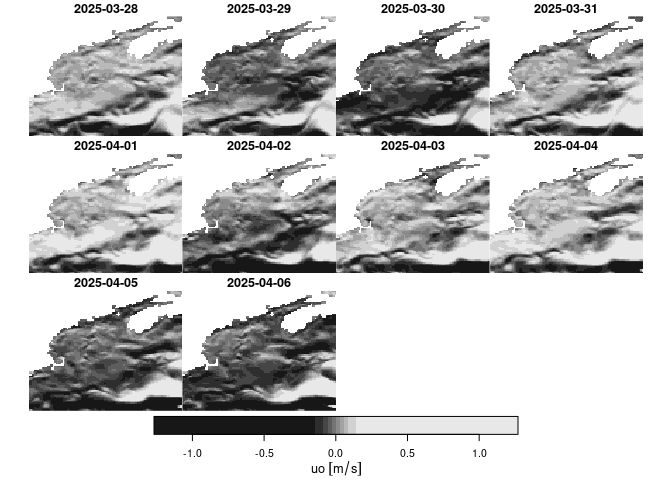
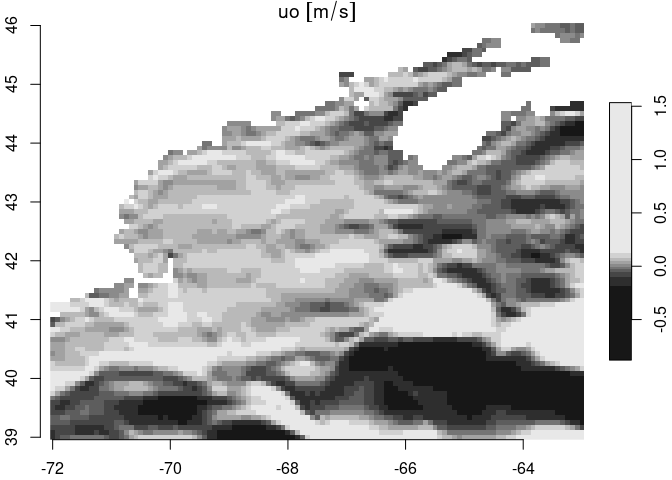
update README

diff --git a/README.md b/README.md
@@ -137,49 +137,56 @@ copernicus::get_copernicus_app()
 
 You can download a product catalog for local storage.
 
-    ok = copernicus::fetch_product_catalog()
+``` r
+suppressPackageStartupMessages({
+  library(copernicus)
+  library(stars)
+})
+
+ok = copernicus::fetch_product_catalog(product_id = "GLOBAL_ANALYSISFORECAST_BGC_001_028")
+```
 
 This downloads into a “catalogs” directory within your data directory
 Now read it in.
 
 ``` r
-x = copernicus::read_product_catalog()
+x = copernicus::read_product_catalog(product_id = "GLOBAL_ANALYSISFORECAST_BGC_001_028")
 x
 ```
 
-    ## # A tibble: 1,176 × 5
-    ##    product_id                             title dataset_id dataset_name vars    
-    ##    <chr>                                  <chr> <chr>      <chr>        <list>  
-    ##  1 ANTARCTIC_OMI_SI_extent                Anta… antarctic… Sea Ice Ext… <tibble>
-    ##  2 ANTARCTIC_OMI_SI_extent_obs            Anta… antarctic… Southern He… <tibble>
-    ##  3 ARCTIC_ANALYSISFORECAST_BGC_002_004    Arct… cmems_mod… Arctic Ocea… <tibble>
-    ##  4 ARCTIC_ANALYSISFORECAST_BGC_002_004    Arct… cmems_mod… Arctic Ocea… <tibble>
-    ##  5 ARCTIC_ANALYSISFORECAST_PHY_002_001    Arct… cmems_mod… Arctic Ocea… <tibble>
-    ##  6 ARCTIC_ANALYSISFORECAST_PHY_002_001    Arct… cmems_mod… Arctic Ocea… <tibble>
-    ##  7 ARCTIC_ANALYSISFORECAST_PHY_002_001    Arct… cmems_mod… Arctic Ocea… <tibble>
-    ##  8 ARCTIC_ANALYSISFORECAST_PHY_002_001    Arct… cmems_mod… Arctic Ocea… <tibble>
-    ##  9 ARCTIC_ANALYSISFORECAST_PHY_ICE_002_0… Arct… cmems_mod… neXtSIM-F s… <tibble>
-    ## 10 ARCTIC_ANALYSISFORECAST_PHY_ICE_002_0… Arct… cmems_mod… cmems_mod_a… <NULL>  
-    ## # ℹ 1,166 more rows
+    ## # A tibble: 31 × 7
+    ##    product_id       title dataset_id dataset_name short_name standard_name units
+    ##    <chr>            <chr> <chr>      <chr>        <chr>      <chr>         <chr>
+    ##  1 GLOBAL_ANALYSIS… Glob… cmems_mod… daily mean … nppv       net_primary_… mg m…
+    ##  2 GLOBAL_ANALYSIS… Glob… cmems_mod… daily mean … o2         mole_concent… mmol…
+    ##  3 GLOBAL_ANALYSIS… Glob… cmems_mod… Monthly mea… nppv       net_primary_… mg m…
+    ##  4 GLOBAL_ANALYSIS… Glob… cmems_mod… Monthly mea… o2         mole_concent… mmol…
+    ##  5 GLOBAL_ANALYSIS… Glob… cmems_mod… daily mean … dissic     mole_concent… mol …
+    ##  6 GLOBAL_ANALYSIS… Glob… cmems_mod… daily mean … ph         sea_water_ph… 1    
+    ##  7 GLOBAL_ANALYSIS… Glob… cmems_mod… daily mean … talk       sea_water_al… mol …
+    ##  8 GLOBAL_ANALYSIS… Glob… cmems_mod… Monthly mea… dissic     mole_concent… mol …
+    ##  9 GLOBAL_ANALYSIS… Glob… cmems_mod… Monthly mea… ph         sea_water_ph… 1    
+    ## 10 GLOBAL_ANALYSIS… Glob… cmems_mod… Monthly mea… talk       sea_water_al… mol …
+    ## # ℹ 21 more rows
 
-This provides a nested table of available datasets along with tables of
-variables for each (if any). For example, the first row has the
-following variables table.
+By default this provides a flattened table of available datasets along
+with tables of variables for each (if any). Here’s the first dataset (a
+constituent of product suite)
 
 ``` r
-dplyr::slice(x, 1) |>
-  dplyr::pull(dplyr::all_of(vars))
+dplyr::filter(x, dataset_id %in% "cmems_mod_glo_bgc-bio_anfc_0.25deg_P1D-m") |>
+  dplyr::glimpse()
 ```
 
-    ## [[1]]
-    ## # A tibble: 5 × 3
-    ##   short_name     standard_name  units
-    ##   <chr>          <chr>          <chr>
-    ## 1 siextents_cglo sea_ice_extent km2  
-    ## 2 siextents_glor sea_ice_extent km2  
-    ## 3 siextents_mean sea_ice_extent km2  
-    ## 4 siextents_oras sea_ice_extent km2  
-    ## 5 siextents_std  sea_ice_extent km2
+    ## Rows: 2
+    ## Columns: 7
+    ## $ product_id    <chr> "GLOBAL_ANALYSISFORECAST_BGC_001_028", "GLOBAL_ANALYSISF…
+    ## $ title         <chr> "Global Ocean Biogeochemistry Analysis and Forecast", "G…
+    ## $ dataset_id    <chr> "cmems_mod_glo_bgc-bio_anfc_0.25deg_P1D-m", "cmems_mod_g…
+    ## $ dataset_name  <chr> "daily mean fields from Global Ocean Biogeochemistry Ana…
+    ## $ short_name    <chr> "nppv", "o2"
+    ## $ standard_name <chr> "net_primary_production_of_biomass_expressed_as_carbon_p…
+    ## $ units         <chr> "mg m-3 day-1", "mmol m-3"
 
 ## Which products? Which datasets?
 
@@ -192,6 +199,9 @@ subject to change).
 
 [GLOBAL_ANALYSISFORECAST_PHY_001_024](https://data.marine.copernicus.eu/product/GLOBAL_ANALYSISFORECAST_PHY_001_024/description)
 31 Oct 2020 to 9 days from present (forecast)
+
+[GLOBAL_ANALYSISFORECAST_BGC_001_028](https://data.marine.copernicus.eu/product/GLOBAL_ANALYSISFORECAST_BGC_001_028/description)
+2021-10-01 to 9 days from present
 
 ## Fetching data
 
@@ -234,9 +244,9 @@ x
 
     ## stars object with 4 dimensions and 2 attributes
     ## attribute(s):
-    ##                Min.     1st Qu.        Median        Mean    3rd Qu.     Max.
-    ## uo [m/s] -1.2678599 -0.06923880 -0.0005947499 0.001666143 0.06905091 1.270773
-    ## vo [m/s] -0.4879295 -0.05941393 -0.0092028086 0.016247062 0.04970369 1.277342
+    ##                Min.     1st Qu.       Median         Mean    3rd Qu.     Max.
+    ## uo [m/s] -0.8798773 -0.07763755 -0.002414509 -0.007870006 0.05840731 1.534169
+    ## vo [m/s] -0.8442903 -0.05558647 -0.002378657  0.028312241 0.05098823 1.805341
     ##           NA's
     ## uo [m/s] 26800
     ## vo [m/s] 26800
@@ -245,173 +255,10 @@ x
     ## x        1 109         -72.04  0.08333      NA [x]
     ## y        1  85          46.04 -0.08333      NA [y]
     ## depth    1   1      0.494 [m]       NA      NA    
-    ## time     1  10 2025-03-28 UTC   1 days POSIXct
-
-We can plot a subset of these using base graphics and the `[` function.
-`stars` objects are indexed first by the attribute (variable) followed
-by the dimensions. In this case the index order is \[`attribute`, `x`,
-`y`, `depth`, `time`\] or \[`attribute`, `x`, `y`, `time`\] for
-single-depth objects.
+    ## time     1  10 2025-04-22 UTC   1 days POSIXct
 
 ``` r
-plot(dplyr::slice(x, "depth", 1) )
+plot(x['uo'], axes = TRUE)
 ```
 
 ![](README_files/figure-gfm/first_plot-1.png)<!-- -->
-
-## Archiving data
-
-You can download and archive data using the database functionality
-provided in this package. There are a number of ways to manage suites of
-data, this is just one fairly light weight method.
-
-Here, we store data in a directory tree that starts with `product` and
-`region` at it’s root. Within the `region` we divide by `year`,
-`monthday`. Within in each `monthday` directory there are one or more
-files uniquely named to provide complete identification of datasetid,
-time, depth, period, variable and treatment. Each file contains one
-raster for one variable at one depth and one time.
-
-Here is an example of a file name that follows this pattern
-`datasetid__date_time_depth_period_variable_treatment.tif`.
-
-    GLOBAL_ANALYSISFORECAST_PHY_001_024/nwa/2022/0601/cmems_mod_glo_phy-cur_anfc_0.083deg_P1D-m__2022-06-01T000000_sur_day_uo_raw.tif
-
-Here you can see that data set id and the rest of the identifiers are
-separated by a double underscore to aid in programmatic parsing. Time
-includes the hour in case we ever want to download the 6-hour data sets.
-Depth is currenly only expressed as “sur”, “bot” and “mld”, but use of
-measured values such as “1.493” *etc.* is allowed but not currently
-used. The treatment, `raw`, in this case means the values are as
-downloaded, however, if you ever wanted to roll your own running mean
-(say 8-day rolling mean) or some other statistic this naming system
-provides the flexibility you will need.
-
-**NOTE** Don’t forget to [set your root data
-path](#Configure-data-path).
-
-First we define an output path for the Gulf of Maine data. The path
-isn’t created until data is written to it. Then we simply call fetch and
-write individual GeoTIFF files into a database structure. Note that we
-provide an identifier that provides the provenance of the data. We
-receive, in turn, a table that serves as a database.
-
-``` r
-x = stars::read_stars(ofile) |>
-  dplyr::slice("depth", 1)
-```
-
-    ## uo, vo,
-
-``` r
-dates = stars::st_get_dimension_values(x, "time")
-db = lapply(names(x),
-  function(nm){
-    db = sprintf("%s__%s_%s_%s_%s_%s%s",
-                 dataset_id,
-                 format(dates, "%Y-%m-%dT000000"),
-                 "sur", 
-                 "day",
-                 nm,
-                 "raw",
-                 ".tif") |>
-      decompose_filename()
-    for(i in seq_along(dates)) write_copernicus(dplyr::slice(x[nm], "time", i), 
-                                                dplyr::slice(db, i),
-                                                path)
-    db
-  }) |>
-  dplyr::bind_rows()
-```
-
-Since this is the first time you have downloaded and archived data, be
-sure to save the database.
-
-``` r
-write_database(db, path)
-```
-
-### Using the database
-
-The database is very light and easy to filter for just the records you
-might need. Note that depth is a character data type; this provides you
-with flexibility to define depth as ‘surface’ or ‘50-75’ or something
-like that.
-
-Let’s walk through reading the database, filtering it for a subset,
-reading the files and finally displaying.
-
-``` r
-db <- copernicus::read_database(path) |>
-  dplyr::glimpse()
-```
-
-    ## Rows: 20
-    ## Columns: 7
-    ## $ id        <chr> "cmems_mod_glo_phy-cur_anfc_0.083deg_P1D-m", "cmems_mod_glo_…
-    ## $ date      <date> 2025-03-28, 2025-03-29, 2025-03-30, 2025-03-31, 2025-04-01,…
-    ## $ time      <chr> "000000", "000000", "000000", "000000", "000000", "000000", …
-    ## $ depth     <chr> "sur", "sur", "sur", "sur", "sur", "sur", "sur", "sur", "sur…
-    ## $ period    <chr> "day", "day", "day", "day", "day", "day", "day", "day", "day…
-    ## $ variable  <chr> "uo", "uo", "uo", "uo", "uo", "uo", "uo", "uo", "uo", "uo", …
-    ## $ treatment <chr> "raw", "raw", "raw", "raw", "raw", "raw", "raw", "raw", "raw…
-
-Now we can read in the files.
-
-``` r
-s = read_copernicus(db, path)
-s
-```
-
-    ## stars object with 3 dimensions and 2 attributes
-    ## attribute(s):
-    ##           Min.     1st Qu.        Median        Mean    3rd Qu.     Max.  NA's
-    ## uo  -1.2678599 -0.06923880 -0.0005947499 0.001666143 0.06905091 1.270773 26800
-    ## vo  -0.4879295 -0.05941393 -0.0092028086 0.016247062 0.04970369 1.277342 26800
-    ## dimension(s):
-    ##      from  to         offset    delta  refsys x/y
-    ## x       1 109         -72.04  0.08333      NA [x]
-    ## y       1  85          46.04 -0.08333      NA [y]
-    ## time    1  10 2025-03-28 UTC   1 days POSIXct
-
-The database diretcory structure looks like this (requires [fs
-package](https://CRAN.R-project.org/package=fs)) which you won’t need
-just to use copernicus).
-
-``` r
-fs::dir_tree(path)
-```
-
-    ## /mnt/s1/projects/ecocast/coredata/copernicus/GLOBAL_ANALYSISFORECAST_PHY_001_024/gom
-    ## ├── 2025
-    ## │   ├── 0328
-    ## │   │   ├── cmems_mod_glo_phy-cur_anfc_0.083deg_P1D-m__2025-03-28T000000_sur_day_uo_raw.tif
-    ## │   │   └── cmems_mod_glo_phy-cur_anfc_0.083deg_P1D-m__2025-03-28T000000_sur_day_vo_raw.tif
-    ## │   ├── 0329
-    ## │   │   ├── cmems_mod_glo_phy-cur_anfc_0.083deg_P1D-m__2025-03-29T000000_sur_day_uo_raw.tif
-    ## │   │   └── cmems_mod_glo_phy-cur_anfc_0.083deg_P1D-m__2025-03-29T000000_sur_day_vo_raw.tif
-    ## │   ├── 0330
-    ## │   │   ├── cmems_mod_glo_phy-cur_anfc_0.083deg_P1D-m__2025-03-30T000000_sur_day_uo_raw.tif
-    ## │   │   └── cmems_mod_glo_phy-cur_anfc_0.083deg_P1D-m__2025-03-30T000000_sur_day_vo_raw.tif
-    ## │   ├── 0331
-    ## │   │   ├── cmems_mod_glo_phy-cur_anfc_0.083deg_P1D-m__2025-03-31T000000_sur_day_uo_raw.tif
-    ## │   │   └── cmems_mod_glo_phy-cur_anfc_0.083deg_P1D-m__2025-03-31T000000_sur_day_vo_raw.tif
-    ## │   ├── 0401
-    ## │   │   ├── cmems_mod_glo_phy-cur_anfc_0.083deg_P1D-m__2025-04-01T000000_sur_day_uo_raw.tif
-    ## │   │   └── cmems_mod_glo_phy-cur_anfc_0.083deg_P1D-m__2025-04-01T000000_sur_day_vo_raw.tif
-    ## │   ├── 0402
-    ## │   │   ├── cmems_mod_glo_phy-cur_anfc_0.083deg_P1D-m__2025-04-02T000000_sur_day_uo_raw.tif
-    ## │   │   └── cmems_mod_glo_phy-cur_anfc_0.083deg_P1D-m__2025-04-02T000000_sur_day_vo_raw.tif
-    ## │   ├── 0403
-    ## │   │   ├── cmems_mod_glo_phy-cur_anfc_0.083deg_P1D-m__2025-04-03T000000_sur_day_uo_raw.tif
-    ## │   │   └── cmems_mod_glo_phy-cur_anfc_0.083deg_P1D-m__2025-04-03T000000_sur_day_vo_raw.tif
-    ## │   ├── 0404
-    ## │   │   ├── cmems_mod_glo_phy-cur_anfc_0.083deg_P1D-m__2025-04-04T000000_sur_day_uo_raw.tif
-    ## │   │   └── cmems_mod_glo_phy-cur_anfc_0.083deg_P1D-m__2025-04-04T000000_sur_day_vo_raw.tif
-    ## │   ├── 0405
-    ## │   │   ├── cmems_mod_glo_phy-cur_anfc_0.083deg_P1D-m__2025-04-05T000000_sur_day_uo_raw.tif
-    ## │   │   └── cmems_mod_glo_phy-cur_anfc_0.083deg_P1D-m__2025-04-05T000000_sur_day_vo_raw.tif
-    ## │   └── 0406
-    ## │       ├── cmems_mod_glo_phy-cur_anfc_0.083deg_P1D-m__2025-04-06T000000_sur_day_uo_raw.tif
-    ## │       └── cmems_mod_glo_phy-cur_anfc_0.083deg_P1D-m__2025-04-06T000000_sur_day_vo_raw.tif
-    ## └── database
